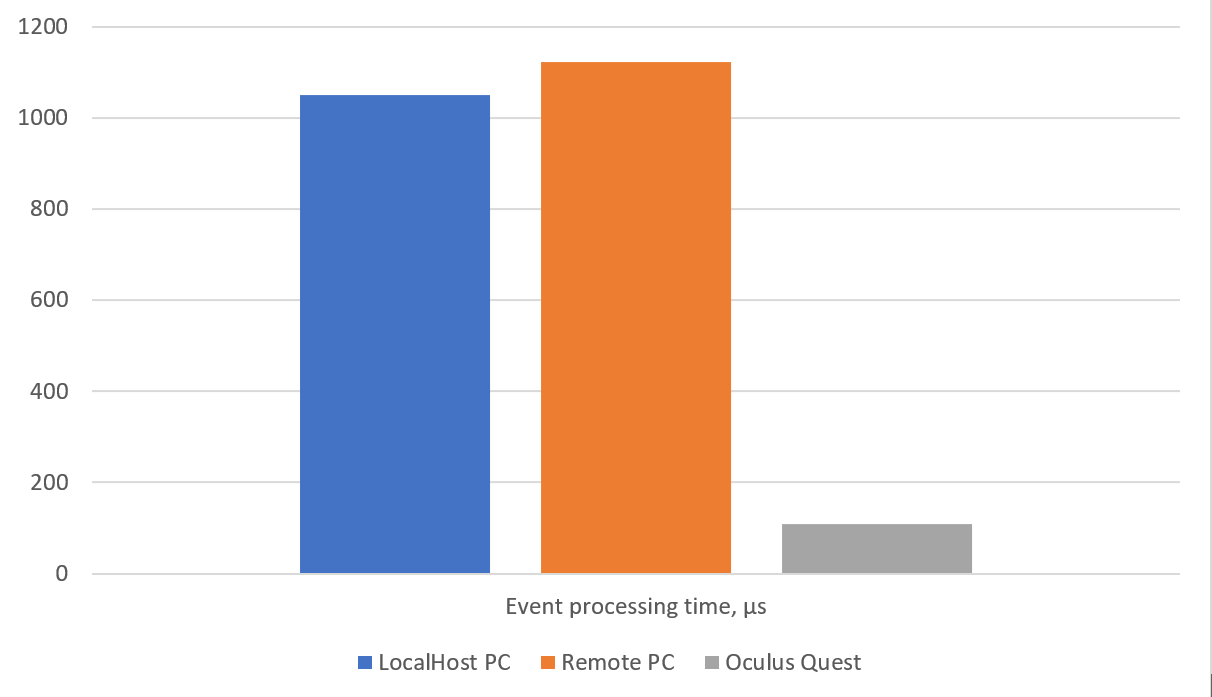
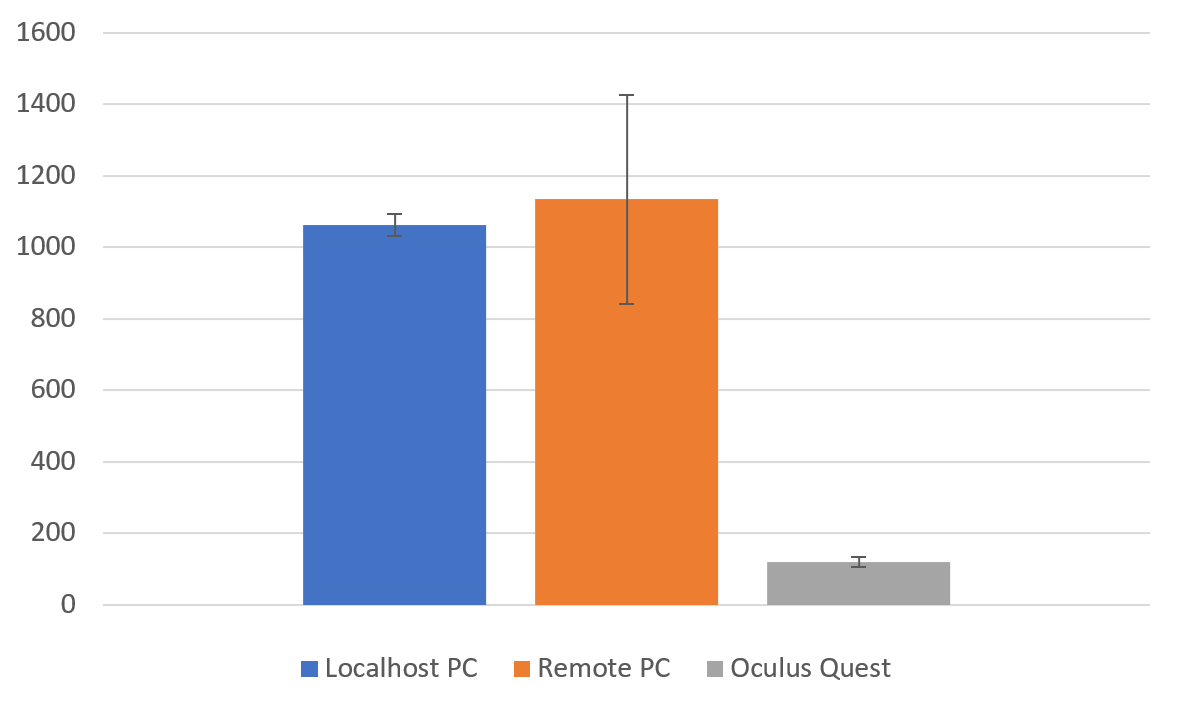
Updates from Overleaf

diff --git a/data/chap03.tex b/data/chap03.tex
@@ -1,6 +1,6 @@
 % !TeX root = ../thuthesis-example.tex
 
-\chapter{PROTOTYPE OF THE VR-IOT RESEARCH PLATFORM}
+\chapter{THE VR-IOT RESEARCH PLATFORM}
 
 Before the platform's development, several meetings were held to discuss key implementation details and the architecture of the VR-IoT research platform, or, as it was named later, "NUIX-Studio." At the ( https://vrsimulator.github.io/ TODO: add to the references) the published meeting minutes can be found. 
 
@@ -27,26 +27,18 @@ Firstly, the requirements the platform should follow are:
 \item Fault Tolerance. The platform should effectively handle faults coming from both real and virtual worlds;
 \item Simultaneous work. As in the real world, where several people can interact with an IoT system at the same time, each of the platform's running instances should be able to run simultaneously and operate with the same data.
 \end{enumerate}
-The architecture of the platform is be based on three layers: 
+
+To provide fault tolerance, the platform is based on the three layers (Figure~\ref{fig:BasicPlatformStructure-figure}): 
 \begin{enumerate}
     \item Real-world IoT devices HUB. A special device responsible for receiving and sending data to real-world devices is needed, that provides the data in a unified format (abstraction of sensors).
-    \item Integration layer. Analyzing data coming from VR and real-world, integrating real-world devices data into VR and vice-versa, performing persistence and providing API for using the platform in research projects;
-    \item Visualization layer. Interaction with digital IoT devices can be performed using VR headsets, AR devices, or simulating touch, sight, gestures, and other interactions. The platform provides an API for developers to integrate their interaction techniques into this layer, but developing these techniques is not the focus of this research. 
+    A third-party software openHAB (\cite{OpenHab}) is used with a future upgrade to a standalone solution to support different IoT devices. The HUB runs on a server and is responsible for collecting and storing the IoT devices' data. Managing the data is performed through a Web Interface;
+    \item Integration layer. Responsible for analyzing data coming from VR and real-world, integrating real-world devices data into VR and vice-versa, performing persistence and providing API for using the platform in research projects. By receiving and sending unified data objects representing IoT devices' sensor data using REST API calls, each of the NUIX-Studio App instances operates with the same data, enabling simultaneous work. The next step is to represent IoT devices' data in Virtual reality and perform computations for research. Since the platform should run smoothly on VR headsets and provide good UX, the analysis should be performed on a PC\footnote{In Chapter 4 an experiment proving this statement is provided.}. At the same time, Virtual reality headsets perform computations for interacting with objects, such as hand recognition. 
+    \item Visualization layer. Interaction with digital IoT devices can be performed using VR headsets, AR devices, or simulating touch, sight, gestures, and other interactions. The platform provides an API for developers to integrate their interaction techniques into this layer, but developing these techniques is not the focus of this research. It was decided to use Unity (\cite{Unity}) for interaction with virtual reality devices. Firstly, Unity comes with a ready-to-use 3D engine, relieving the need to develop a new one. Secondly, Unity is multi-platform and supports VR headsets. Thirdly, developers are already familiar with Unity development, making it easier for them to integrate the platform into their solutions.
 \end{enumerate}
-
-\section{Real-world IoT devices HUB}
-A third-party software openHAB is used with a future upgrade to a standalone solution to support different IoT devices. The hub runs on a server and is responsible for collecting and storing the IoT devices' data. Managing the data is performed through a web interface.
-
-\section{Integration layer}
-By receiving and sending unified data objects representing IoT devices' sensor data using REST API calls, each of the NUIX-Studio App instances operates with the same data, enabling simultaneous work.
-The next step is to represent IoT devices' data in virtual reality and perform computations for research. Since the platform should run smoothly on VR headsets and provide good UX, the analysis should be performed on a PC\footnote{In Chapter 4 an experiment proving this statement is provided.}. At the same time, Virtual reality headsets perform computations for interacting with objects, such as hand recognition. 
-
-\section{Visualization layer}
-Since the platform's purpose is to provide an API for research on IoT devices in VR, it was decided to use Unity for interaction with virtual reality devices. Firstly, Unity comes with a ready-to-use 3D engine, relieving the need to develop a new one. Secondly, Unity is multi-platform and supports VR headsets. Thirdly, developers are already familiar with Unity development, making it easier for them to integrate the platform into their solutions.
 
 \begin{figure}
   \centering
-  \includegraphics[width=0.6\linewidth]{figures/BasicPlatformStructure.png}
+  \includegraphics[width=0.9\linewidth]{figures/BasicPlatformStructure.png}
   \caption{Simplified structure of NUIX Studio. Real-world IoT devices HUB is an openHAB server, while NUIX-Studio server is an instance of NUIX-Studio APP responsible for the computations.}
   \label{fig:BasicPlatformStructure-figure}
 \end{figure}
@@ -54,8 +46,7 @@ Since the platform's purpose is to provide an API for research on IoT devices in
 \section{Server Architecture}
 \subsection{OpenHAB Server Structure}
 
-
-It was decided not to change the openHAB system's structure since it follows the SOA principles that allow implementing support for various types of devices.
+It was decided not to change the openHAB system's structure since it follows the SOA principles that allow implementing support for various types of devices (Figure~\ref{fig:BasicPlatformStructure-figure}).
 
 Each IoT device is called a Thing, but a Thing can also be a service. For example, a smoke sensor and user location are both Things.
 
@@ -68,7 +59,7 @@ Before adding an IoT device to the server, the developer has to install a softwa
 \begin{figure}
   \centering
   \includegraphics[width=0.9\linewidth]{figures/openHABServerStructure.png}
-  \caption{NUIX-Studio App architecture.}
+  \caption{Server structure}
   \label{fig:openHABServerStructure-figure}
 \end{figure}
 
@@ -92,7 +83,7 @@ Each of these channels represents one item (Figure~\ref{fig:XiaomiLampPowerItem-
   \label{fig:XiaomiLampPowerItem-figure}
 \end{figure}
 
-For example, the Power Control is performed through the power channel. In terms of the introduced concepts, the Power Control is an item named MiLEDSmartBulbWhiteandColorPower of type Switch and State "OFF."
+For example, the Power Control is performed through the power channel. In terms of the introduced concepts, the Power Control is an Item named MiLEDSmartBulbWhiteandColorPower of type Switch and State "OFF."
 
 As soon as the lamp is turned On, the Power Control switch in Web Interface will also turn ON. And if the switch is changed to the "OFF" state in the Web Interface, the lamp will turn off.
 
@@ -163,7 +154,7 @@ When the NUIX-Studio APP requests access to the system to get the list of items 
 But storing the states of the items in the APP by itself does not allow user to interact with the items. In other words, NUIX-Studio App has to provide an interface to interact with the items. Since different types of items require different interaction techniques, for each item type, a widget is created.
 Widget in NUIX-Studio APP is a Unity Virtual GameObject, which can visualize the item state and update it. For example, it can be an interactable pinch slider for a dimmer item or a virtual screen for an image item.
 
-By integrating Extra packages, NUIX-Studio platform can provide a bigger variety of widgets and a higher number of supported devices. For example, Oculus Integration support provides an API for hands recognition; Steam VR (TODO: link) support makes it possible to run the NUIX-Studio APP on the majority of VR headsets.
+By integrating Extra packages, NUIX-Studio platform can provide a bigger variety of widgets and a higher number of supported devices. For example, Oculus Integration support provides an API for hands recognition; SteamVR (\cite{SteamVR2021}) support makes it possible to run the NUIX-Studio APP on the majority of VR headsets.
 
 \begin{figure}
   \centering

diff --git a/data/chap02.tex b/data/chap02.tex
@@ -6,19 +6,13 @@
 
 The literature review incorporates three sections: research on building an IoT platform without required support of VR, research on interacting with IoT devices in VR and AR, and, at last, research on creating an IoT-VR Platform.
 
-\section{Managing IoT}
+\section{IoT device management}
 
 Many companies already consider it profitable to use IoT in their businesses, but the establishing connection between heterogeneous IoT devices has not been solved yet. The existing frameworks that solve this issue seem to be usually not user-friendly and not easy to use. 
 
-The providers of business IoT integration services state that their solutions can analyze large amounts of data from the connected IoT devices and then turn it into actionable insights (TODO: add to references https://www.softwareag.com). Businesses can then use the insights for lowering energy consumption, analyzing the sensors data, etc.
+The providers of business IoT integration services state that their solutions can analyze large amounts of data from the connected IoT devices and then turn it into actionable insights (\cite{software_ag_software_2020}). Businesses can then use the insights for lowering energy consumption, analyzing the sensors data, etc.
 
-The limitations of the solutions for businesses are:
-\begin{enumerate}
-    \item Price
-    \item No access to the source code
-\end{enumerate}
-
-Even if researchers and companies, who are going to be the users of the VR-IoT platform, can afford to pay a high price for getting the analyzed data, they still will not have access to the source code and access to the data used for training the models. Users will need to pay for the subscription to the services, and it will require additional time and money to switch to another solution.
+Even if researchers can afford to pay a high price for getting the analyzed data, they still will not have access to the source code and access to the data used for training the models. Users will need to pay for the subscription to the services, and it will require additional time and money to switch to another solution.
 
 In \cite{k_mohapatra_solution_2016} it is discussed how the framework for connecting heterogeneous devices should operate the incoming data. In this paper, the requirements for managing IoT are given: the communication protocols, security and access control, and how the data should be analyzed. In section 4 of the paper, a Reference IoT-Architecture model is proposed. Each solution block, such as Data Lake or Event Broker, is briefly introduced, but neither implementation nor tests are provided.
 
@@ -28,7 +22,7 @@ Compared to \cite{k_mohapatra_solution_2016}, in \cite{ahmad_software_2021} auth
 
 In Chapter 1, it was mentioned how building 6G could influence the IoT market. In \cite{guo_enabling_2021} a comprehensive study was done, explaining how 5G limitations for massive IoT can be overcome by using 6G networks. It was explained how machine learning and blockchain could play the primary role in IoT ecosystems. New technologies can be supported, such as holographic communications, which can be easily tested in the VR-IoT Research Platform.
 
-\section{Interacting with IoT devices in VR and AR}
+\section{Interaction with IoT devices in VR and AR}
 
 Augmented reality is used to overlay digital objects onto the objects surrounding us in real life. Extra virtual elements can be attached to real-world devices. The selected research articles' main idea is to create a two-way synchronization between AR/VR and the real world: changes in the virtual world are applied to the real world and vice-versa.
 
@@ -43,7 +37,7 @@ Cities such as Shanghai, New York, Moscow can already be considered smart cities
 
 The research has no novelty if a solution already exists. Fortunately, none of the following articles is focused on creating a platform for creating new IoT devices using VR. Nonetheless, they are still helpful for the VR-IoT platform development.
 
-The next-generation network will influence the IoT market, as stated previously. In \cite{liao_information-centric_2021} authors provide their solution for integrating AR/VR inside 6G massive IoT environment.
+The next-generation network will influence the IoT market, as stated previously. In \cite{liao_information-centric_2021}, authors provide their solution for integrating AR/VR inside 6G massive IoT environment.
 
 As mentioned previously, using VR for IoT research requires building a virtual environment. Nowadays, most VR headsets provide 6 degrees of freedom, which means that it is possible to simultaneously move in the real world and virtual world. In \cite{you_internet_2018} authors research how IoT can be used for seamless virtual reality space created by 360-degree photos and videos.
 

diff --git a/data/chap06.tex b/data/chap06.tex
@@ -27,15 +27,15 @@ The platform is going to be used as a tool to integrate other researches. During
 
 \section{Summary}
 
-The result of the research is the developed concept of the platform, as well as the basis for the further development of tools for creating IoT devices in virtual, augmented, and mixed reality. By creating a prototype platform, the following results were obtained:
+The result of the research is the developed concept of the platform, as well as the basis for the further development of tools for creating IoT devices in virtual, augmented, and mixed reality. By creating a prototype platform, the following has been proven:
 \begin{enumerate}
-    \item It has been proven that using the presented architecture, any IoT devices can be added to the virtual world;
-    \item It has been proven that it is possible to add new functionality to existing IoT devices inside VR environment;
-    \item It has been proven that it is possible to create completely virtual devices and embed them in the same environment with real devices;
-    \item It has been proven that the synchronization time between devices within the IoT-VR environment is currently limited by the network speed;
-    \item It has been proven that it is possible for several users to work simultaneously in one IoT-VR environment;
-    \item It has been proven that to improve user experience, it is necessary to separate data and interaction calculation tasks between different application instances;
-    \item It is proved that the created solution is scalable;
+    \item Using the presented architecture, any IoT devices can be added to the virtual world;
+    \item It is possible to add new functionality to existing IoT devices inside VR environment;
+    \item It is possible to create completely virtual devices and embed them in the same environment with real devices;
+    \item The synchronization time between devices within the IoT-VR environment is currently limited by the network speed;
+    \item It is possible for several users to work simultaneously in one IoT-VR environment;
+    \item To improve user experience, it is necessary to separate data and interaction calculation tasks between different application instances;
+    \item The created solution is scalable;
 \end{enumerate}
 
 
@@ -43,7 +43,7 @@ The developed solution has the following advantages:\footnote{Considering that t
 \begin{enumerate}
     \item Integration of third-party solutions is possible both from the IoT support side and from the VR side;
     \item The platform implementation is lightweight and is not based on many third-party frameworks;
-    \item The development team can add new members without the need to teach people new technologies since the main part of the platform is written in C# inside the Unity engine. It also gives the advantage of more convenient adding external projects into the platform;
+    \item The development team can add new members without the need to teach people new technologies since the main part of the platform is written in C\# inside the Unity engine. It also gives the advantage of more convenient adding external projects into the platform;
     \item An API is being developed to create elements of interaction with IoT devices;
     \item A tool called Thing designer is being developed, which allows researchers to create new IoT devices both using VR and using the Web interface;
     \item A tool is being developed to track the position of real devices and synchronize with their position in the virtual world;

diff --git a/data/chap01.tex b/data/chap01.tex
@@ -15,13 +15,13 @@ The sixth-generation (6G) mobile network is expected to cast high-speed and high
 
 Nowadays, the standard way of integrating IoT devices in the development stage inside the existing environment is to either use their virtual (or digital) twins or build prototypes. In the first case, interaction with such devices is performed through a 2D interface, with a very rough simulation of the user behavior, which leads to further underestimations. In the second case, creating a prototype requires waiting for the IoT device's modeling, sending the schemes to the manufacturers, and then waiting for the prototype to be delivered. In both cases, the disadvantages lead to the possibility of losing the market, either because of lack of usability or because of being too late to enter the market, already taken by the competitors. Companies and researchers need an instrument to devoid these disadvantages and integrate the prototypes of devices inside the existing real-world IoT environment.
 
-In this study, a solution for this issue is proposed: a platform for developing new IoT devices. The following section describes how using another perspective technology can help create the platform defined above.
+In this research, a solution for this issue is proposed: a platform for developing new IoT devices. The following section describes how using another perspective technology can help create the platform defined above.
 
-\section{Research idea and tasks}
+\section{Research method}
 
 The problem of defining an instrument for having research on the new types of IoT devices and integrating such devices inside the existing real-world environments, which was introduced in the previous section, requires a solution, which can provide, at first, integration of real-world devices, and, at second, interaction with virtual devices.
 
-Like IoT, Virtual reality (VR), together with AR, is considered one of the essential high-throughput application-level requirements of 6G. The biggest companies, such as Facebook, invest billions in AR and VR research. Nearly 10000 employees, almost 20% of the company staff, work on research in this field (link: https://www.theverge.com/2021/3/12/22326875/facebook-reality-labs-ar-vr-headcount-report TODO: put in the references). Research papers on applying Virtual reality into almost every area can be found, such as games, education, healthcare, or industry.
+Like IoT, Virtual reality (VR), together with AR, is considered one of the essential high-throughput application-level requirements of 6G. The biggest companies, such as Facebook, invest billions in AR and VR research. Nearly 10000 employees, almost 20\% of the company staff, work on research in this field (\cite{sam_byford_almost_2021}). Research papers on applying Virtual reality into almost every area can be found, such as games, education, healthcare, or industry.
 
 Companies selling Virtual Reality Headsets provide powerful APIs for integrating their devices inside different 3D engines \footnote{The Virtual reality market and 3D engine to be used in the research are further discussed in the next chapter.}. Researchers can use these interfaces to create a platform for interacting with virtual IoT devices.
 

diff --git a/data/chap05.tex b/data/chap05.tex
@@ -4,7 +4,7 @@
 
 A theoretical assessment of the various parameters of the platform is provided in this chapter. Compared to the existing solutions on the market, this is the first solution to automatically add any device from the real world to Virtual reality. Also, the platform allows researchers to create new devices in Virtual reality through the Things designer. Even though this research's main goal was to design the platform, the API for external projects connected to the platform will be presented. The limitations dictated by hardware were considered in the previous chapter. In this chapter, the limitations dictated by the architecture are discussed.
 
-A functional solution for IoT research requires support for various types of devices. Although the IoT market has tens of thousands of different devices, general types of device parameter values can be specified. Following the definitions given in Chapter 3, each device is represented as a Thing and includes several Items. Thus, each device existing or created in the future can be divided into blocks in terms of the VR-IoT Research Platform architecture. The supported Item types are listed in the Table~\ref{tab:items--table}.
+A functional solution for IoT research requires support for various types of devices. Although the IoT market has tens of thousands of different devices, general types of device parameter values can be specified. Following the definitions given in Chapter 3, each device is represented as a Thing and includes several Items. Thus, each device existing or created in the future can be divided into blocks in terms of the VR-IoT Research Platform architecture. The supported Item types are listed in the Table~\ref{tab:items-table}.
 
 \begin{table}
   \centering
@@ -40,7 +40,7 @@ After NUIX-Studio App receives the Item of a specific format, the Semantic model
 
 The platform provides only basic Widgets for the Items. These Widgets are used to give an example of how to visualize the IoT devices' data. Researchers can create Widgets specific to the device they develop using the NUIX-Studio API.
 
-However, in most cases, researchers can save time by using the basic Widgets. Several Widgets based on the Mixed Reality Toolkit (TODO: link), such as Color Picker, Pinch Slider, Switcher, and Button, were developed. Light-connected, Player-, Location- and Group-based Widgets were developed without using Mixed Reality Toolkit.
+However, in most cases, researchers can save time by using the basic Widgets. Several Widgets based on the Mixed Reality Toolkit (\cite{MRTK2021}), such as Color Picker, Pinch Slider, Switcher, and Button, were developed. Light-connected, Player-, Location- and Group-based Widgets were developed without using Mixed Reality Toolkit.
 
 \section{Things designer}
 

diff --git a/data/abstract.tex b/data/abstract.tex
@@ -5,7 +5,7 @@
 % Requirements: 800-1000 CHINESE characters, it should not exceed 1 page maximum. You are allowed a maximum of 5 keywords in total
 \begin{abstract}
 
-近年来，计算机处理数据的成本变得愈发廉价，这使得我们令周围事物变得智能化不再成为问题：在服饰、家具、玩具等物品中使用节能的系统级芯片或微控制器，助力于对我们活动监控的实施，也帮助储存传感器数据，对其进行分析并共享到互联网。这些智能的发明可以通过使用嵌入式麦克风，扬声器和信息显示器与我们进行互动。 5G和6G网络的快速发展，有可能在不久的将来为人们提供一种快速且节能的方式来对成千上万台设备进行连接，而不再是仅仅依附于某一个地点。设备之间更高数据的共享以及对大数据分析的改进提升，促进着物联网的进一步发展。由于当下缺乏能够使它们快速集成到现实世界现有场景当中的标准软件，开发新型设备成为了一个问题。
+近年来，计算机处理数据的成本逐渐降低，这使得我们令周围事物变得智能化不再成为问题：在服饰、家具、玩具等物品中使用节能的系统级芯片或微控制器，助力于对我们活动监控的实施，也帮助储存传感器数据，对其进行分析并共享到互联网。这些智能的发明可以通过使用嵌入式麦克风，扬声器和信息显示器与我们进行互动。 5G和6G网络的快速发展，有可能在不久的将来为人们提供一种快速且节能的方式来对成千上万台设备进行连接，而不再是仅仅依附于某一个地点。设备之间更高数据的共享以及对大数据分析的改进提升，促进着物联网的进一步发展。由于当下缺乏能够使它们快速集成到现实世界现有场景当中的标准软件，开发新型设备成为了一个问题。
 
 同时，虚拟现实技术近来得到了飞速地发展，并且伴随着新的手部识别技术以及虚拟现实头戴显示器设备的革新，它已证明自己不仅仅是用于游戏目的，而且还得以应用于医疗保健，教育，和科学。
 

diff --git a/data/chap04.tex b/data/chap04.tex
@@ -1,6 +1,6 @@
 % !TeX root = ../thuthesis-example.tex
 
-\chapter{PERFORMANCE TESTING AND USABILITY EVALUATION OF THE VR-IOT RESEARCH PLATFORM}
+\chapter{VR-IOT RESEARCH PLATFORM PERFORMANCE TESTING}
 
 In this chapter, one of the most common IoT environments Smart home is used to create a device of a new type. There are several devices in the example configuration (Figure~\ref{fig:TestingEquipment-figure}):
 \begin{enumerate}
@@ -108,7 +108,7 @@ Each test was performed on a new Unity APP instance to avoid cashing influence. 
 \begin{figure}
   \centering
   \includegraphics[width=0.9\linewidth]{figures/SystemInitTime.png}
-  \caption{System initialization time measured on different client devices.}
+  \caption{System initialization time measured on different client devices, in ms}
   \label{fig:SystemInitTime-figure}
 \end{figure}
 
@@ -126,7 +126,7 @@ In the next experiment, event processing time was measured. On one of the device
 \begin{figure}
   \centering
   \includegraphics[width = 0.9 \linewidth]{figures/EventProcessingTime.png}
-  \caption{Event processing time measured on different devices.}
+  \caption{Event processing time measured on different devices, in \textmu{}s}
   \label{fig:EventProcessingTime-figure}
 \end{figure}
 

diff --git a/data/appendix.tex b/data/appendix.tex
@@ -12,7 +12,7 @@ During the development, there were several challenges faced:
     \item Rewriting the code to support new architectures.
 \end{enumerate}
 
-The platform's primary repository is hosted at https://github.com/VRSimulator/NUIX-Studio-Client (TODO: put the link into the references). The source code distribution required keeping the repository size at a minimum while providing an easy installation procedure. NUIX-Studio was shared as a separate package to follow these requirements, possible to integrate into any Unity project.
+The platform's source code is hosted at \cite{NUIXStudio} repository. The source code distribution required keeping the repository size at a minimum while providing an easy installation procedure. NUIX-Studio was shared as a separate package to follow these requirements, possible to integrate into any Unity project.
 
 The prototypes of the NUIX-Studio platform did not initially support Virtual reality (Figure~\ref{fig:Prototype2-figure}) and were based on a different architecture (Figure~\ref{fig:Prototype3Structure-figure}).
 

diff --git a/data/acknowledgements.tex b/data/acknowledgements.tex
@@ -4,9 +4,9 @@
 
   I would like to express my deepest appreciation to my supervisor Professor Yu Chun, advisor Yan Yukang for the perpetual support of my research, Thank you for suggestions, advice and contribution. Your guidance assisted me in all the time of this research.
   
-  I would also like to extend my deepest gratitude to Professor Shi for sharing your knowledge and insights. 
+  I would also like to extend my deepest gratitude to Professor Shi Yuanchun for sharing your knowledge and insights. 
   
-  I thank my fellow lab mate Qian Yanlin and Jessy for the stimulating discussions, feedback, and cooperation.
+  I thank my fellow lab mate Qian Yanlin and Liu Yuhan for the stimulating discussions, feedback, and cooperation.
   
   This work would not have been possible without the partnership and support from the faculty, staff, and students of Tsinghua University, Computer Science Department, HCI Lab. 
   

diff --git a/IoT-VR-research-platform.tex b/IoT-VR-research-platform.tex
@@ -68,7 +68,7 @@
 % 参考文献
 % References
 % \bibliography{ref/refs}  % 参考文献使用 BibTeX 编译
-\bibliography{references}  % 参考文献使用 BibTeX 编译
+\bibliography{references, ref/refs}  % 参考文献使用 BibTeX 编译
 % \printbibliography       % 参考文献使用 BibLaTeX 编译
 
 % 附录
